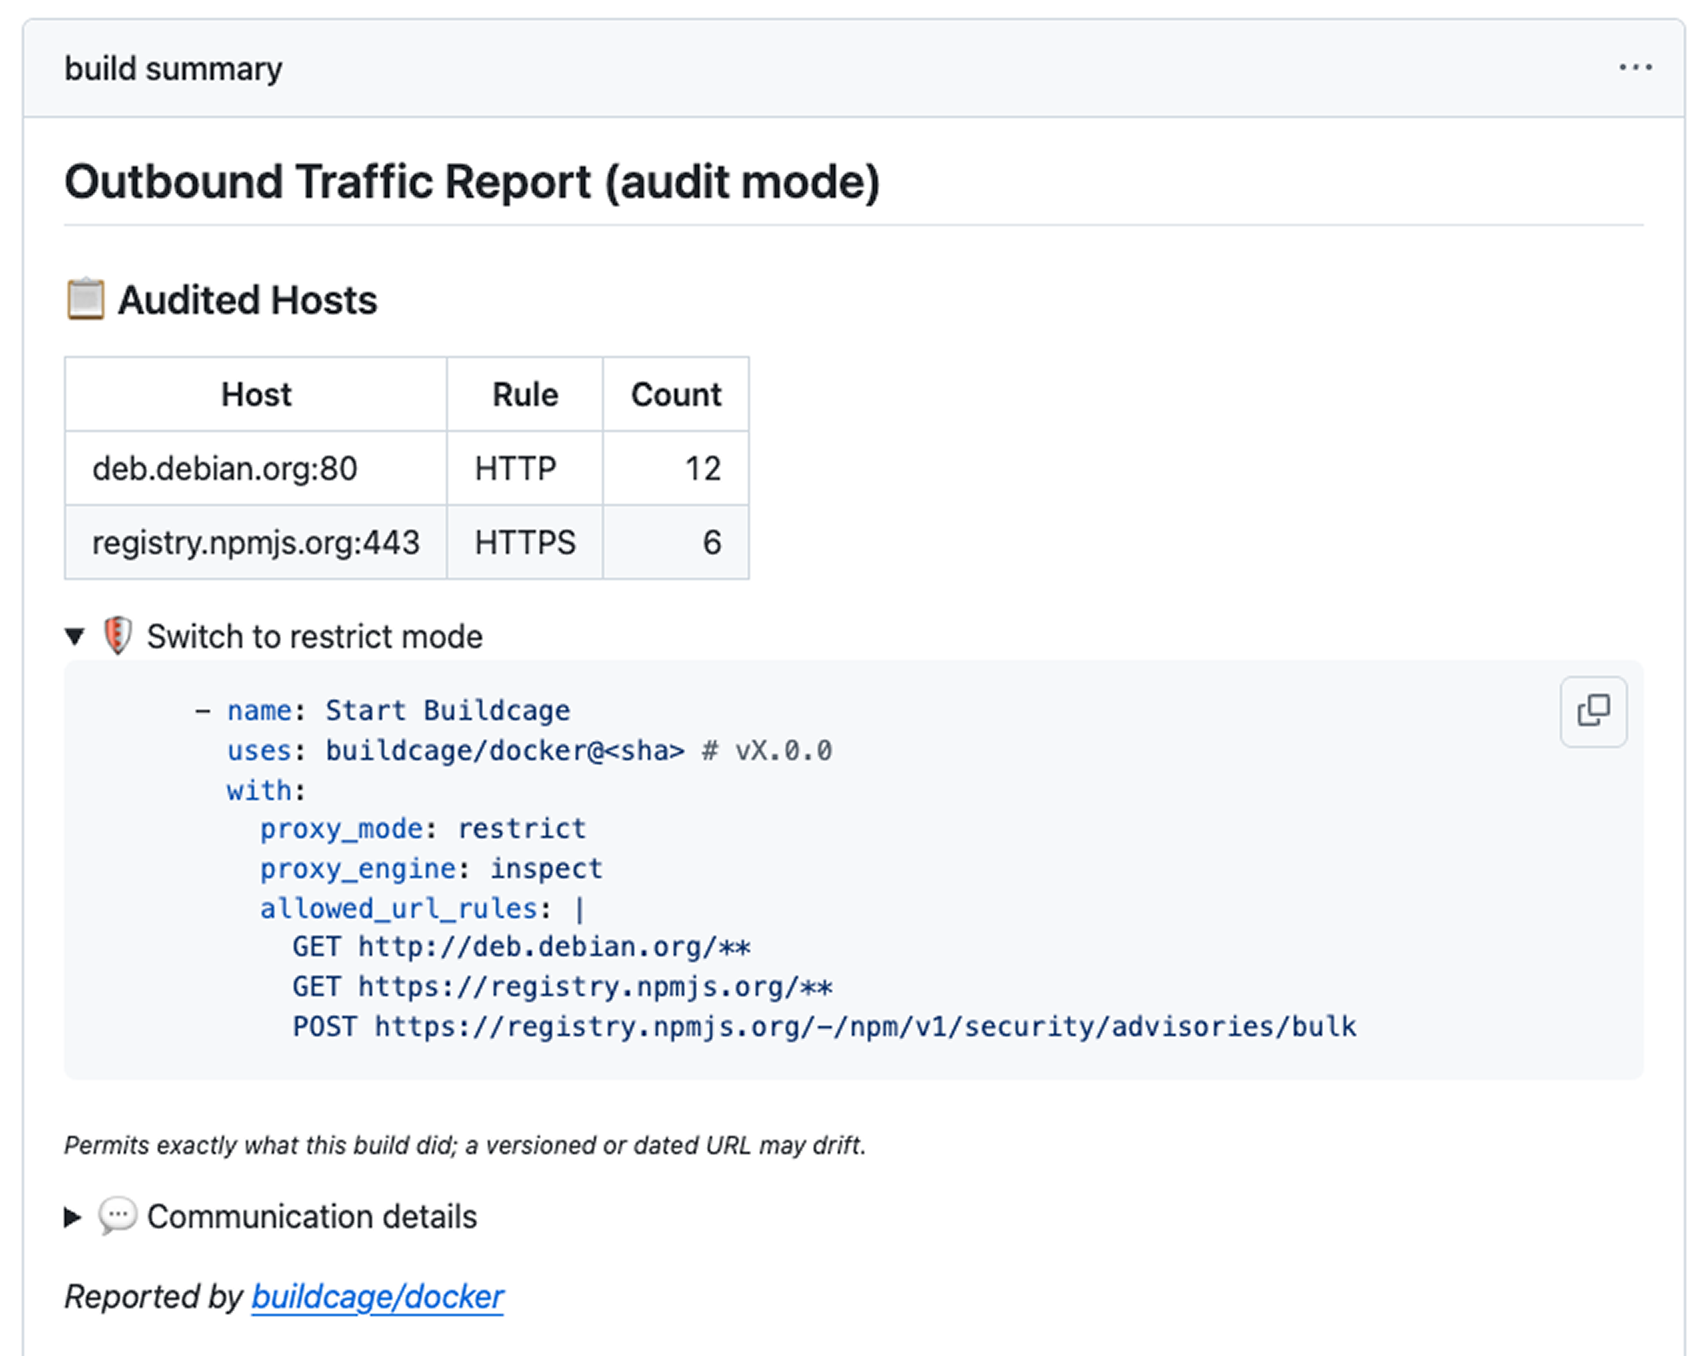
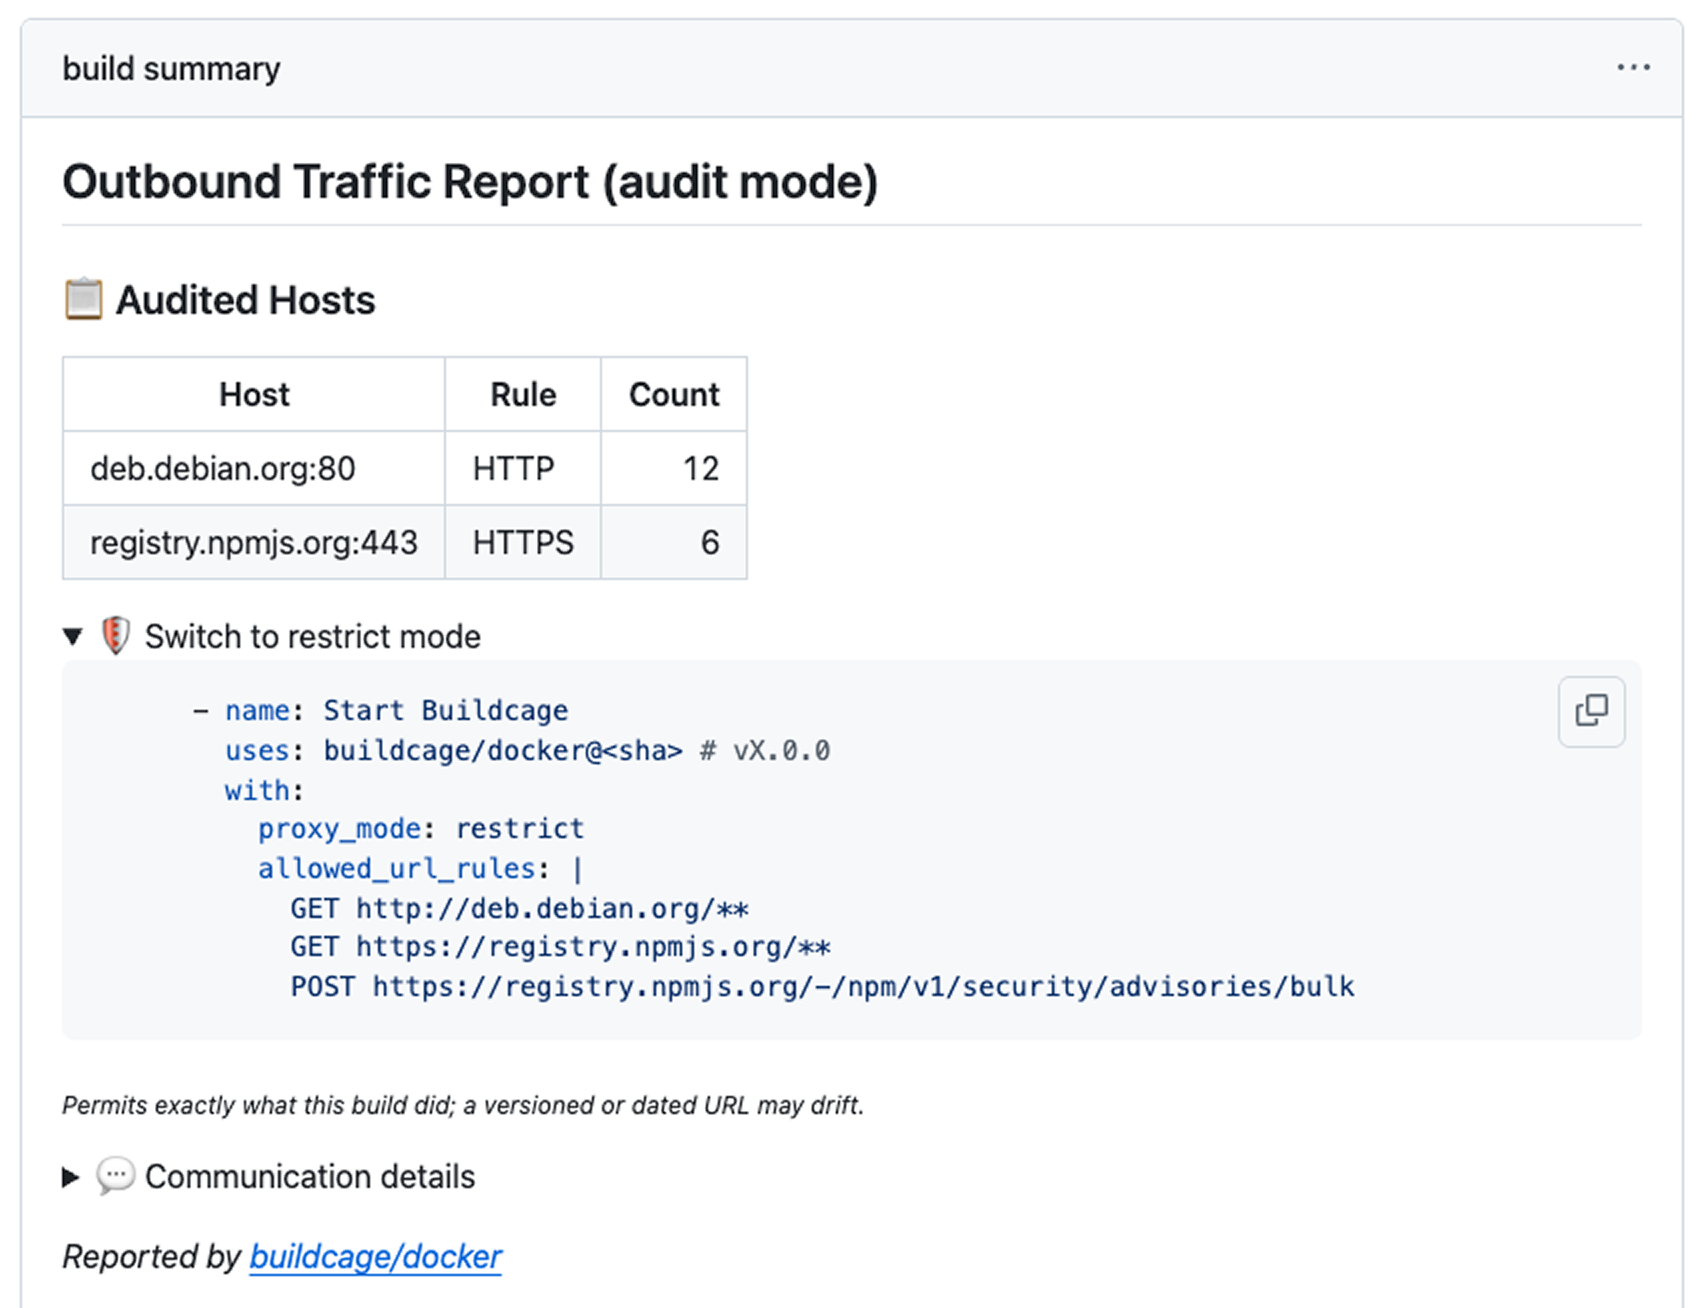
docs: update inspect audit-mode report screenshot

diff --git a/index.html b/index.html
@@ -280,7 +280,7 @@
                 src="assets/report-inspect-audit-mode.png"
                 alt="Audit-mode report listing the hosts a build contacted"
                 width="1704"
-                height="1356"
+                height="1308"
                 loading="lazy"
               />
             </figure>
